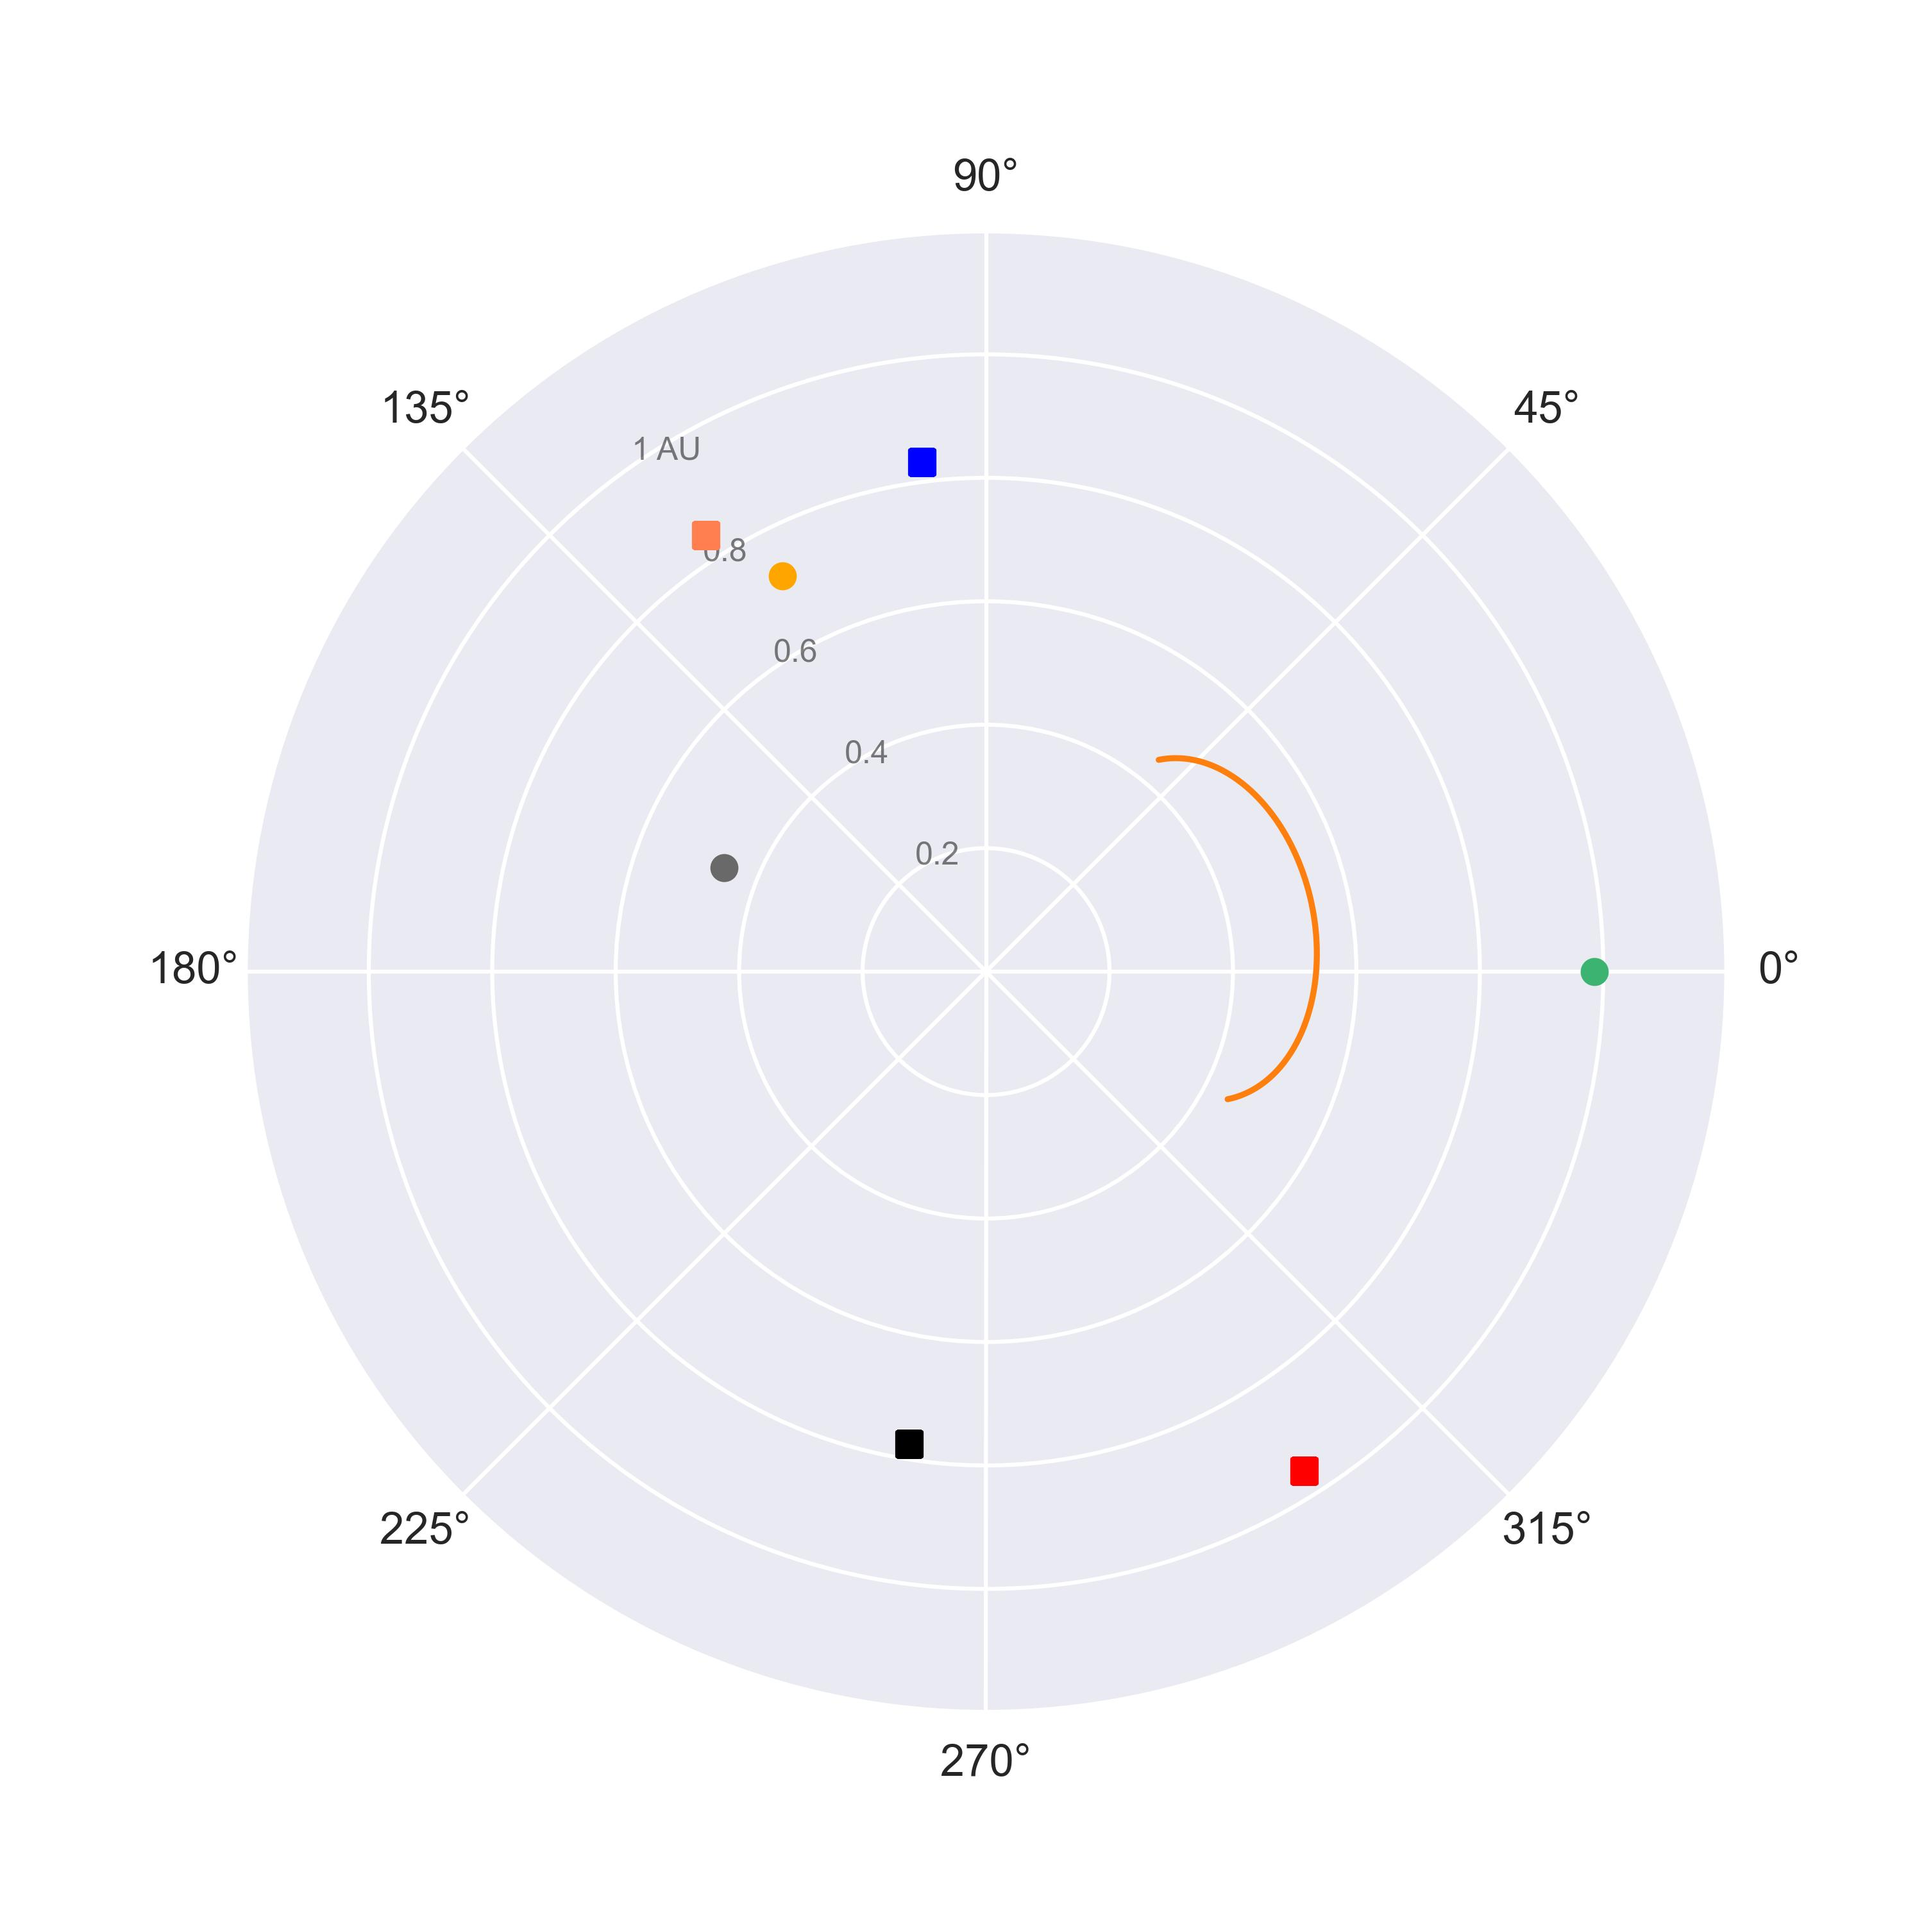
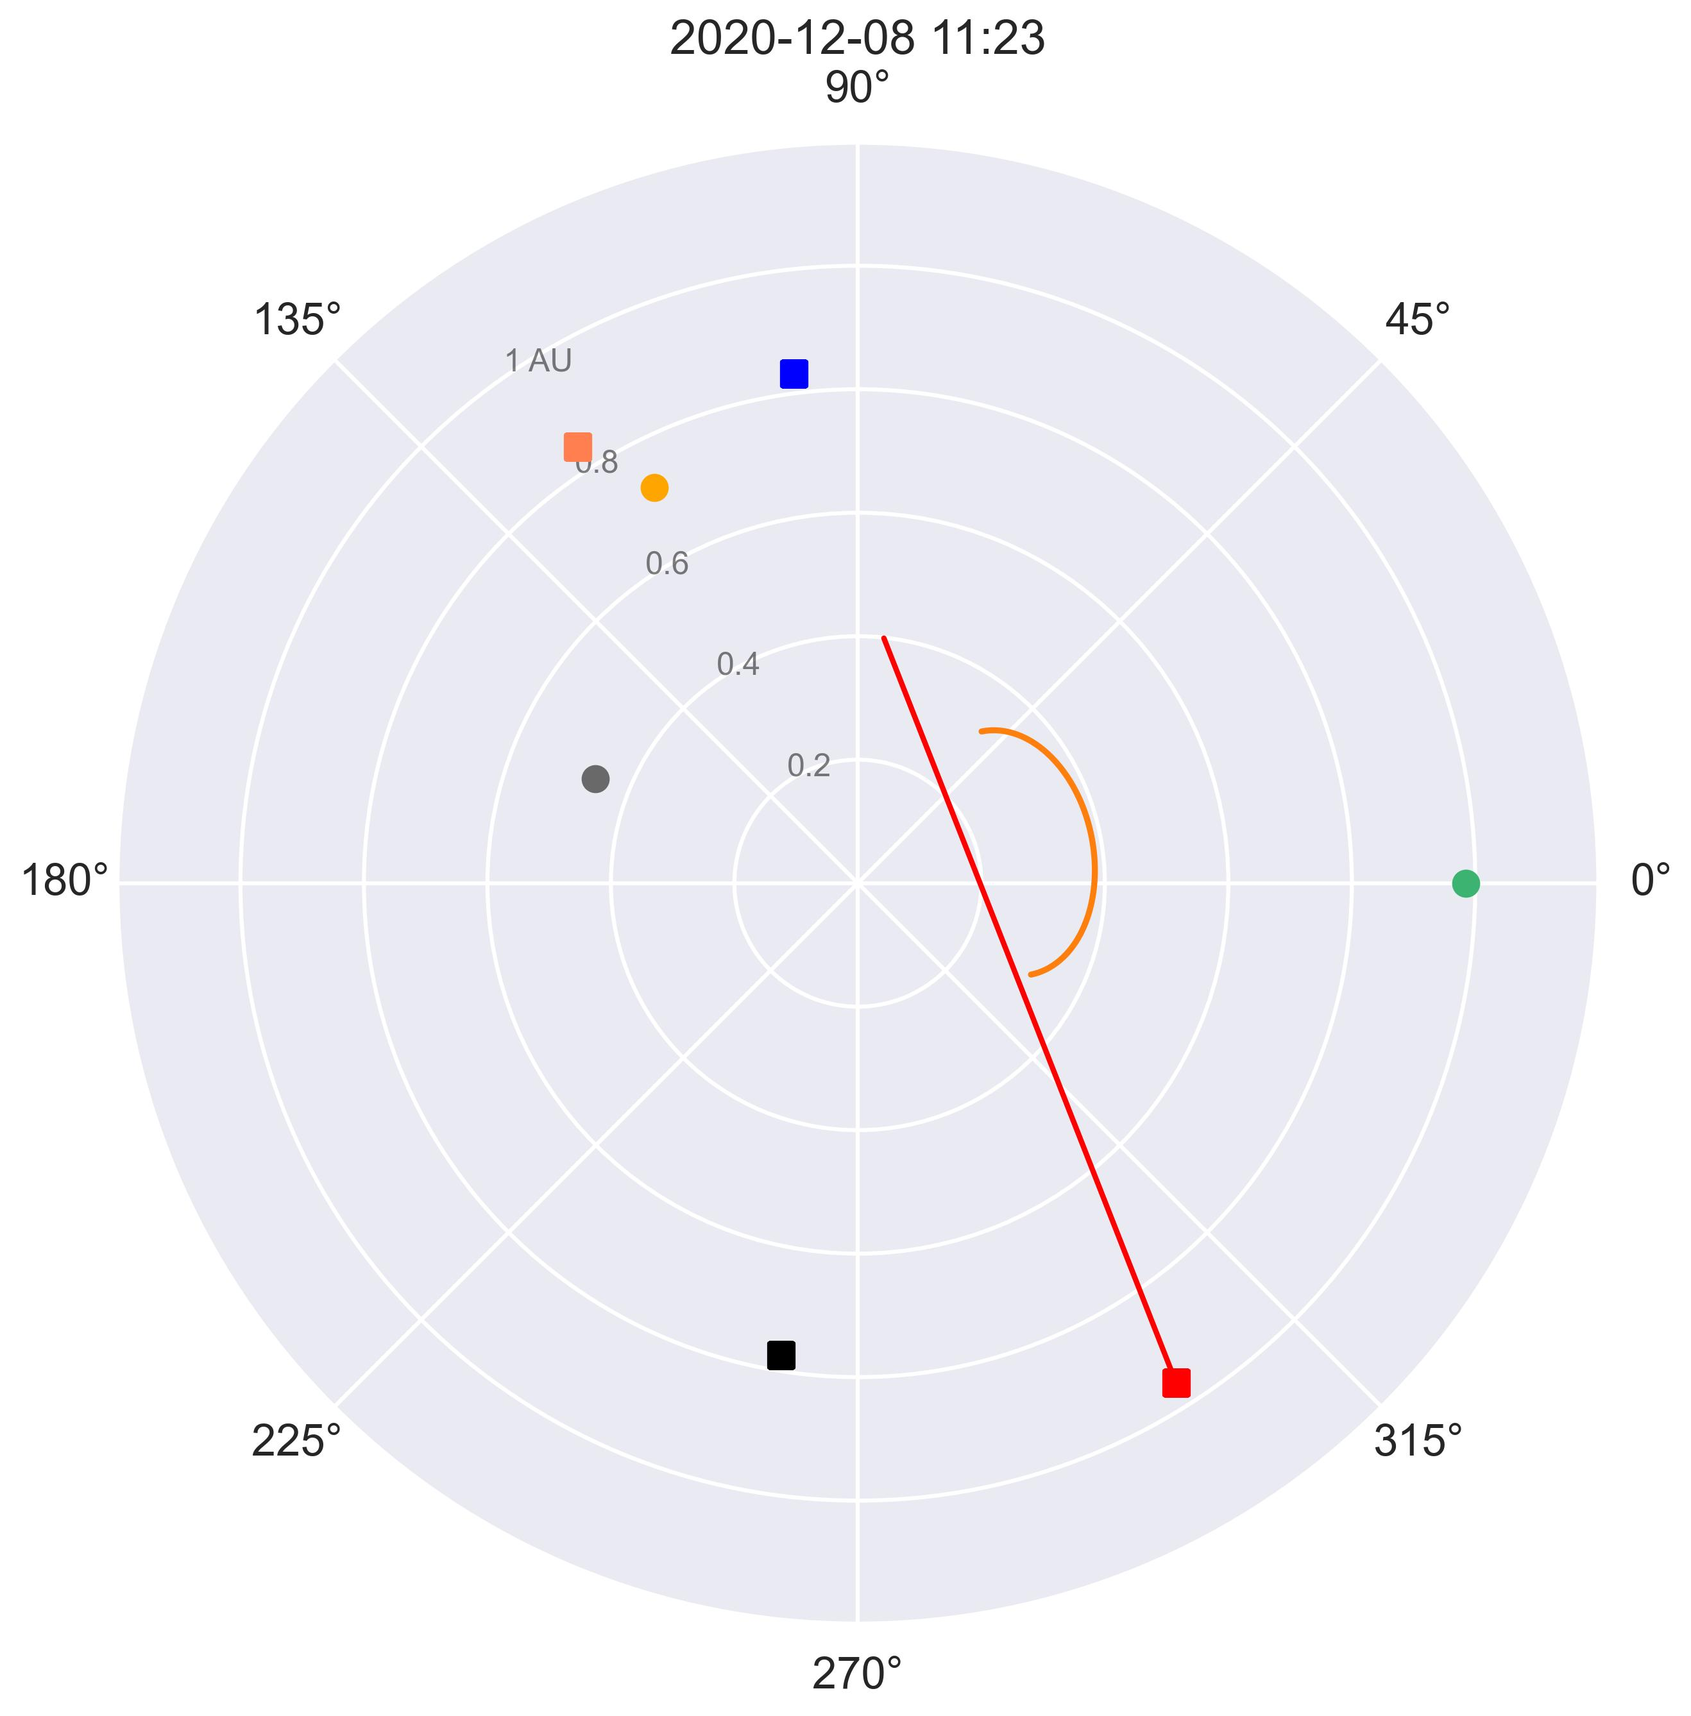
updated movie

diff --git a/code/functions.py b/code/functions.py
@@ -615,7 +615,7 @@ def elevo_analytic(R, f, halfwidth, delta, out=False, plot=False):
             print('distance d in AU: ', dvalue)
         return dvalue
    
-def elevo(R, time_array, tnum, direction, f, halfwidth, vdrag, availability, hit_counts, delta_values, positions, outer_system, prediction_path, movie=False, timegrid = 1440):
+def elevo(R, time_array, tnum, direction, f, halfwidth, vdrag, track, availability, hit_counts, delta_values, positions, HIobs, outer_system, prediction_path, movie=False, timegrid = 1440):
     # calculate ELEvo radial distances in direction of each target and
     # arrival times and speeds
     
@@ -627,7 +627,6 @@ def elevo(R, time_array, tnum, direction, f, halfwidth, vdrag, availability, hit
     solo_available = availability['solo_available']
     psp_available = availability['psp_available']
     bepi_available = availability['bepi_available']
-    
     
     hit_sta = hit_counts['hit_sta']
     hit_stb = hit_counts['hit_stb']
@@ -1099,9 +1098,63 @@ def elevo(R, time_array, tnum, direction, f, halfwidth, vdrag, availability, hit
     
     prediction = pd.DataFrame(pred)
     
+    # interpolate time-elongation track to movie time-axis to display the tangent to the CME front
+    # Convert datetime values to Unix timestamps in seconds
+    #x = (df['TRACK_DATE'] - pd.Timestamp("1970-01-01")) // pd.Timedelta('1s')
+    elon = track["elongation"]
+
+    # existing time axis from tracking
+    track["time"] = pd.to_datetime(track["time"])
+    x = (track["time"] - pd.Timestamp("1970-01-01")) // pd.Timedelta('1s')
+    # Create an interpolation function using interp1d
+    interp_func = interp1d(x, elon, kind='linear', fill_value="extrapolate")
+
+    # Convert new_time_axis to Unix timestamps in seconds
+    time_a = pd.to_datetime(time_array)
+    # Convert datetime values to Unix timestamps in seconds
+    x_movie = (time_a - pd.Timestamp("1970-01-01")) // pd.Timedelta('1s')
+    
+    x_last_element = x.iloc[-1]  # Get the last element of track time
+
+    # Check which elements in x_new are greater than or equal to the last element of x
+    smaller_than_last_x = np.where(x_movie <= x_last_element)[0]
+    
+    print('smaller_than_last_x: ', smaller_than_last_x)
+    
+    x_new = x_movie[smaller_than_last_x]
+
+    # Interpolate elongation onto the common new time axis
+    # This new time axis ends with endcut defined in config file
+    interp_elon = interp_func(x_new)
+    
+    # Define the starting point of the tangent
+    start_radius = sta_r
+    start_angle = sta_lon
+
+    # Define the length of the tangent
+    line_length = 1
+    
+    elon_rad = np.deg2rad(interp_elon)
+    
+    print('elon: ', elon)
+    print('interp_elon: ', interp_elon)
+    print('elon_rad', elon_rad)
+    #print('interp. elon: ', len(interp_elon))
+    
+    fig = plt.figure(figsize = (10, 6))
+    
+    plt.plot(x_new, interp_elon, marker='s', color="orange")
+
+    plt.plot(x, elon, marker='x', color="black")
+    
+    plt.savefig('compare_elon.jpg', dpi=150, facecolor=fig.get_facecolor(), edgecolor='none', bbox_inches='tight')
+
+    plt.close(fig)
+
+    
     if movie:
         # Initialize your plot outside of the loop
-        print('Making movie.')
+        print('Making frames.')
 
         sns.set_context('talk')
         sns.set_style('darkgrid')
@@ -1110,6 +1163,8 @@ def elevo(R, time_array, tnum, direction, f, halfwidth, vdrag, availability, hit
 
         # Loop over time frames
         for k in range(timegrid):
+            
+            print('k: ', k)
             
             t = (np.arange(181) * np.pi/180) - direction
             t1 = (np.arange(181) * np.pi/180)
@@ -1121,7 +1176,7 @@ def elevo(R, time_array, tnum, direction, f, halfwidth, vdrag, availability, hit
             a = a/AU
             b = b/AU
             c = c/AU
-            R = R
+            #R = R
 
             xc = c * np.cos(direction) + ((a * b) / np.sqrt((b * np.cos(t1)) ** 2 + (a * np.sin(t1)) ** 2)) * np.sin(t)
             yc = c * np.sin(direction) + ((a * b) / np.sqrt((b * np.cos(t1)) ** 2 + (a * np.sin(t1)) ** 2)) * np.cos(t)
@@ -1175,20 +1230,39 @@ def elevo(R, time_array, tnum, direction, f, halfwidth, vdrag, availability, hit
                 plt.rgrids((5, 10, 15, 20, 25, 30), ('5', '10', '15', '20', '25', '30 AU'), angle = 125, fontsize = 12,
                            alpha = 0.5, color = backcolor)
                 ax.set_ylim(0, 32)
+                
+            if k < len(elon_rad):
+                ######
+                # Calculate the ending point of the line
+                end_radius = np.sqrt(line_length**2 + sta_r**2 - 2. * line_length * sta_r * np.cos(elon_rad[k]))
+                end_angle = np.arcsin((line_length * np.sin(elon_rad[k])) / end_radius)
+
+                # Calculate the coordinates of the line
+                line_x = np.array([start_angle, end_angle])
+                line_y = np.array([start_radius, end_radius])
+
+                # Plot the HI tangent
+                ax.plot(line_x, line_y, color='red', linestyle='-', linewidth=2)
+
+                ######
 
             #save figure
             framestr = '%05i' % (k)
+            
+            print('k: ', k)
+            print('elon:', interp_elon[k])
 
             filename = prediction_path + '/frames/frame_' + framestr + '.jpg' 
 
-            plt.savefig(filename, dpi=300, facecolor=fig.get_facecolor(), edgecolor='none')
+            plt.savefig(filename, dpi=300, facecolor=fig.get_facecolor(), edgecolor='none', bbox_inches='tight')
 
             plt.close(fig)
             
         os.system('ffmpeg -r 60 -i ' + prediction_path + '/frames/frame_%05d.jpg -b:v 5000k -r 60 ' + prediction_path + '/movie.mp4 -y')
         
     else:
-        a, b, c = elevo_analytic(rinit+100*rsun, f, halfwidth, 0., out=False, plot=True)
+        k = 100
+        a, b, c = elevo_analytic(R[k]*AU, f, halfwidth, 0., out=False, plot=True)
         a = a/AU
         b = b/AU
         c = c/AU
@@ -1208,11 +1282,11 @@ def elevo(R, time_array, tnum, direction, f, halfwidth, vdrag, availability, hit
 
         r_ell = np.sqrt(xc ** 2 + yc ** 2)
 
-
         fig = plt.figure(figsize = (10, 10))
         backcolor = 'black'
 
         ax = fig.add_subplot(projection = 'polar')
+        ax.set_title(time_array[k].strftime('%Y-%m-%d %H:%M'))
         ax.plot(theta_ell, r_ell, color = "tab:orange")
 
         # plot the position of the planets
@@ -1250,9 +1324,24 @@ def elevo(R, time_array, tnum, direction, f, halfwidth, vdrag, availability, hit
             plt.rgrids((5, 10, 15, 20, 25, 30), ('5', '10', '15', '20', '25', '30 AU'), angle = 125, fontsize = 12,
                        alpha = 0.5, color = backcolor)
             ax.set_ylim(0, 32)
+        
+        if k < len(elon_rad):
+            ######
+            # Calculate the ending point of the line
+            end_radius = np.sqrt(line_length**2 + sta_r**2 - 2. * line_length * sta_r * np.cos(elon_rad[k]))
+            end_angle = np.arcsin((line_length * np.sin(elon_rad[k])) / end_radius)  # You can modify this if you want a line at an angle
+
+            # Calculate the coordinates of the line
+            line_x = np.array([start_angle, end_angle])
+            line_y = np.array([start_radius, end_radius])
+
+            # Plot the HI tangent
+            ax.plot(line_x, line_y, color='red', linestyle='-', linewidth=2)
+
+            ######
 
         filename = prediction_path + 'ELEvoHI_HEE.jpg'
-        plt.savefig(filename, dpi=300, facecolor=fig.get_facecolor(), edgecolor='none')
+        plt.savefig(filename, dpi=300, facecolor=fig.get_facecolor(), edgecolor='none', bbox_inches='tight')
 
         # s/c motion should be include
         #     #plot stereoa fov hi1/2    

diff --git a/code/ELEvoHI.py b/code/ELEvoHI.py
@@ -31,7 +31,7 @@ def main():
     AU = const.au.to_value('km')
     rsun = const.R_sun.to_value('km')
 
-    config = load_config('/Users/tanja/ELEvoHI/code/config.json')
+    config = load_config('config.json')
 
     basic_path = config['basic_path']
     pred_path = basic_path + 'ELEvoHI/predictions/'
@@ -462,7 +462,7 @@ def main():
                          'neptune_lon': neptune_lon
         }
         positions.update(outer_planets)
-      
+    print(positions)
               
     ############################################################################   
     # calculate angular separation of CME apex from each target
@@ -819,7 +819,7 @@ def main():
     
     R = rdrag /AU
 
-    prediction = elevo(R, time_array, tnum, direction, f, halfwidth, vdrag, availability, hit_counts, delta_values, positions, outer_system, prediction_path, movie=movie, timegrid=timegrid)
+    prediction = elevo(R, time_array, tnum, direction, f, halfwidth, vdrag, track, availability, hit_counts, delta_values, positions, HIobs, outer_system, prediction_path, movie=movie, timegrid=timegrid)
            
     if accsign < 0:
         print('')

diff --git a/README.md b/README.md
@@ -23,12 +23,15 @@ Note, that the standard deviation derived from these measurements is not used wi
 
 Clone the ELEvoHI folder into the same directory where STEREO-HI-Data-Processing is located.
 
+    git clone https://github.com/tamerstorfer/ELEvoHI.git
+    cd ELEvoHI
+
 **3. Installing requirements to run Python**
 
     conda create --n "helio_hi"
     conda activate helio_hi
     pip install -r requirements.txt
-    cd ELEvoHI/code
+    cd code
 
 **4. Setting up the ELEvoHI config file**
 
@@ -133,9 +136,9 @@ If you want to avoid unnecessary terminal output, set this to true.
         
 When the parameters needed are set and the helio_hi environment is active run ELEvoHI as follows:
 
-    python, ELEvoHI.py
+    python ELEvoHI.py
 
-When ELEvoHI has finished, the result of the prediction is given in the terminal. Plots and figures can be found in the according folder under the defined prediction_path.
+When ELEvoHI has finished, the result of the prediction is given in the terminal. Plots and figures can be found in the according events folder under ELEvoHI/predictions.
 
 The ensemble version of ELEvoHI (Amerstorfer et al., 2018) will soon follow in Python. Also, the possibility of frontal deformation (Hinterreiter et al., 2021b) will be implemented again in Python.
 In case you find a bug or if you have any questions, please contact me (tanja.amerstorfer (at) geosphere.at).
